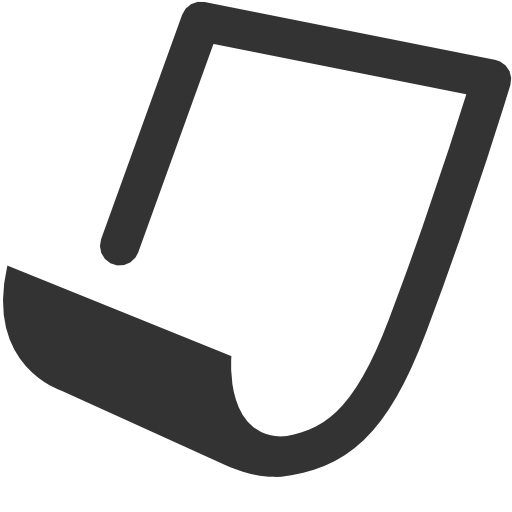
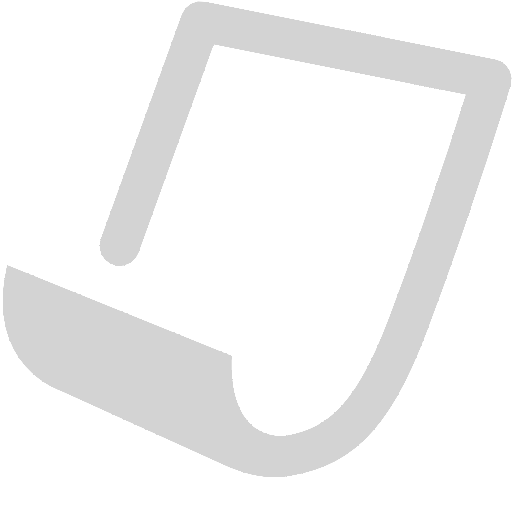
recolored pics; some tweaks to AI choice

Changed region(s): [[0.0, 0.0, 1.0, 0.9375]]

diff --git a/index.html b/index.html
@@ -13,8 +13,10 @@
             <p class="header">By Gergő Ujvárosi</p>
         </div>
 
-        <div class="aichoicebox">
-            <button class="btn aichoice"> <img class="RPSChoose" src="imgs/Paper.png" alt="Placeholder AI choice"></button>
+        <div class="aichoicebox my-2 align-">
+            <div class="d-inline">
+                <img class="RPSChoose" src="imgs/Paper.png" alt="placeholder">
+            </div>
         </div>
 
         <div class="container text-center">

diff --git a/style.css b/style.css
@@ -10,7 +10,6 @@ body {
 .RPSChoose {
     width: 300px;
     height: 300px;
-    color: white;
 }
 
 .title {
